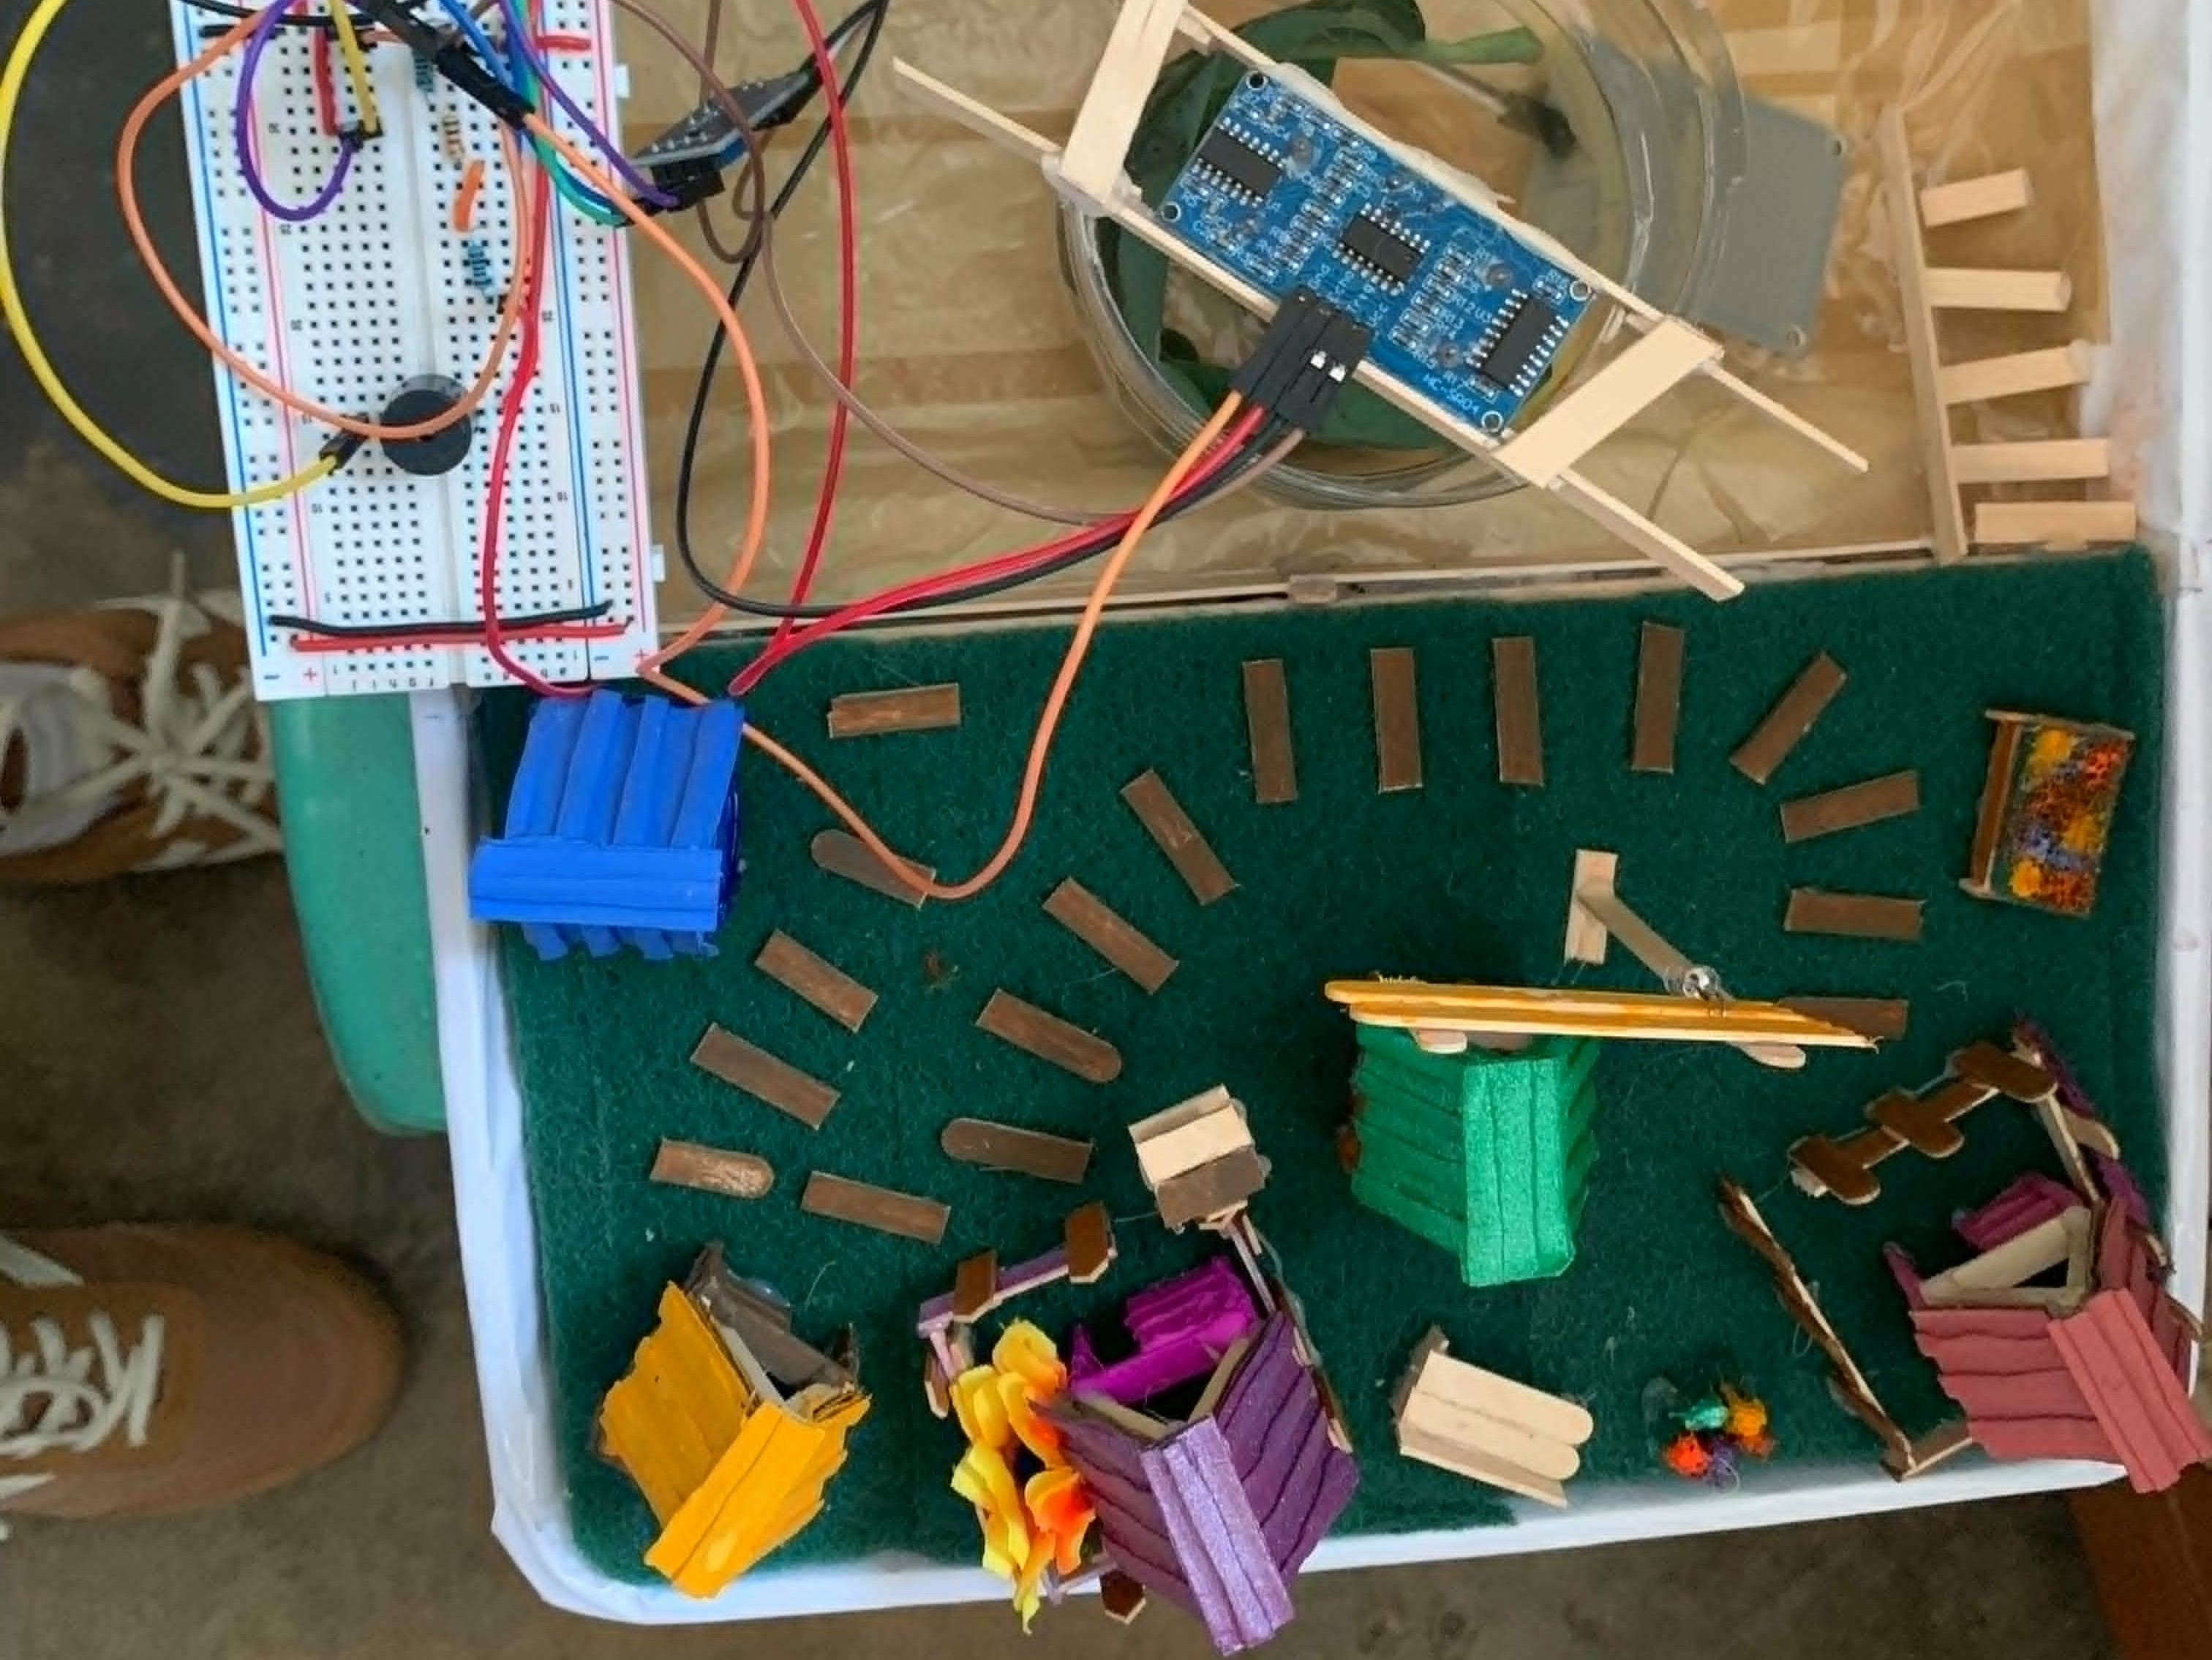
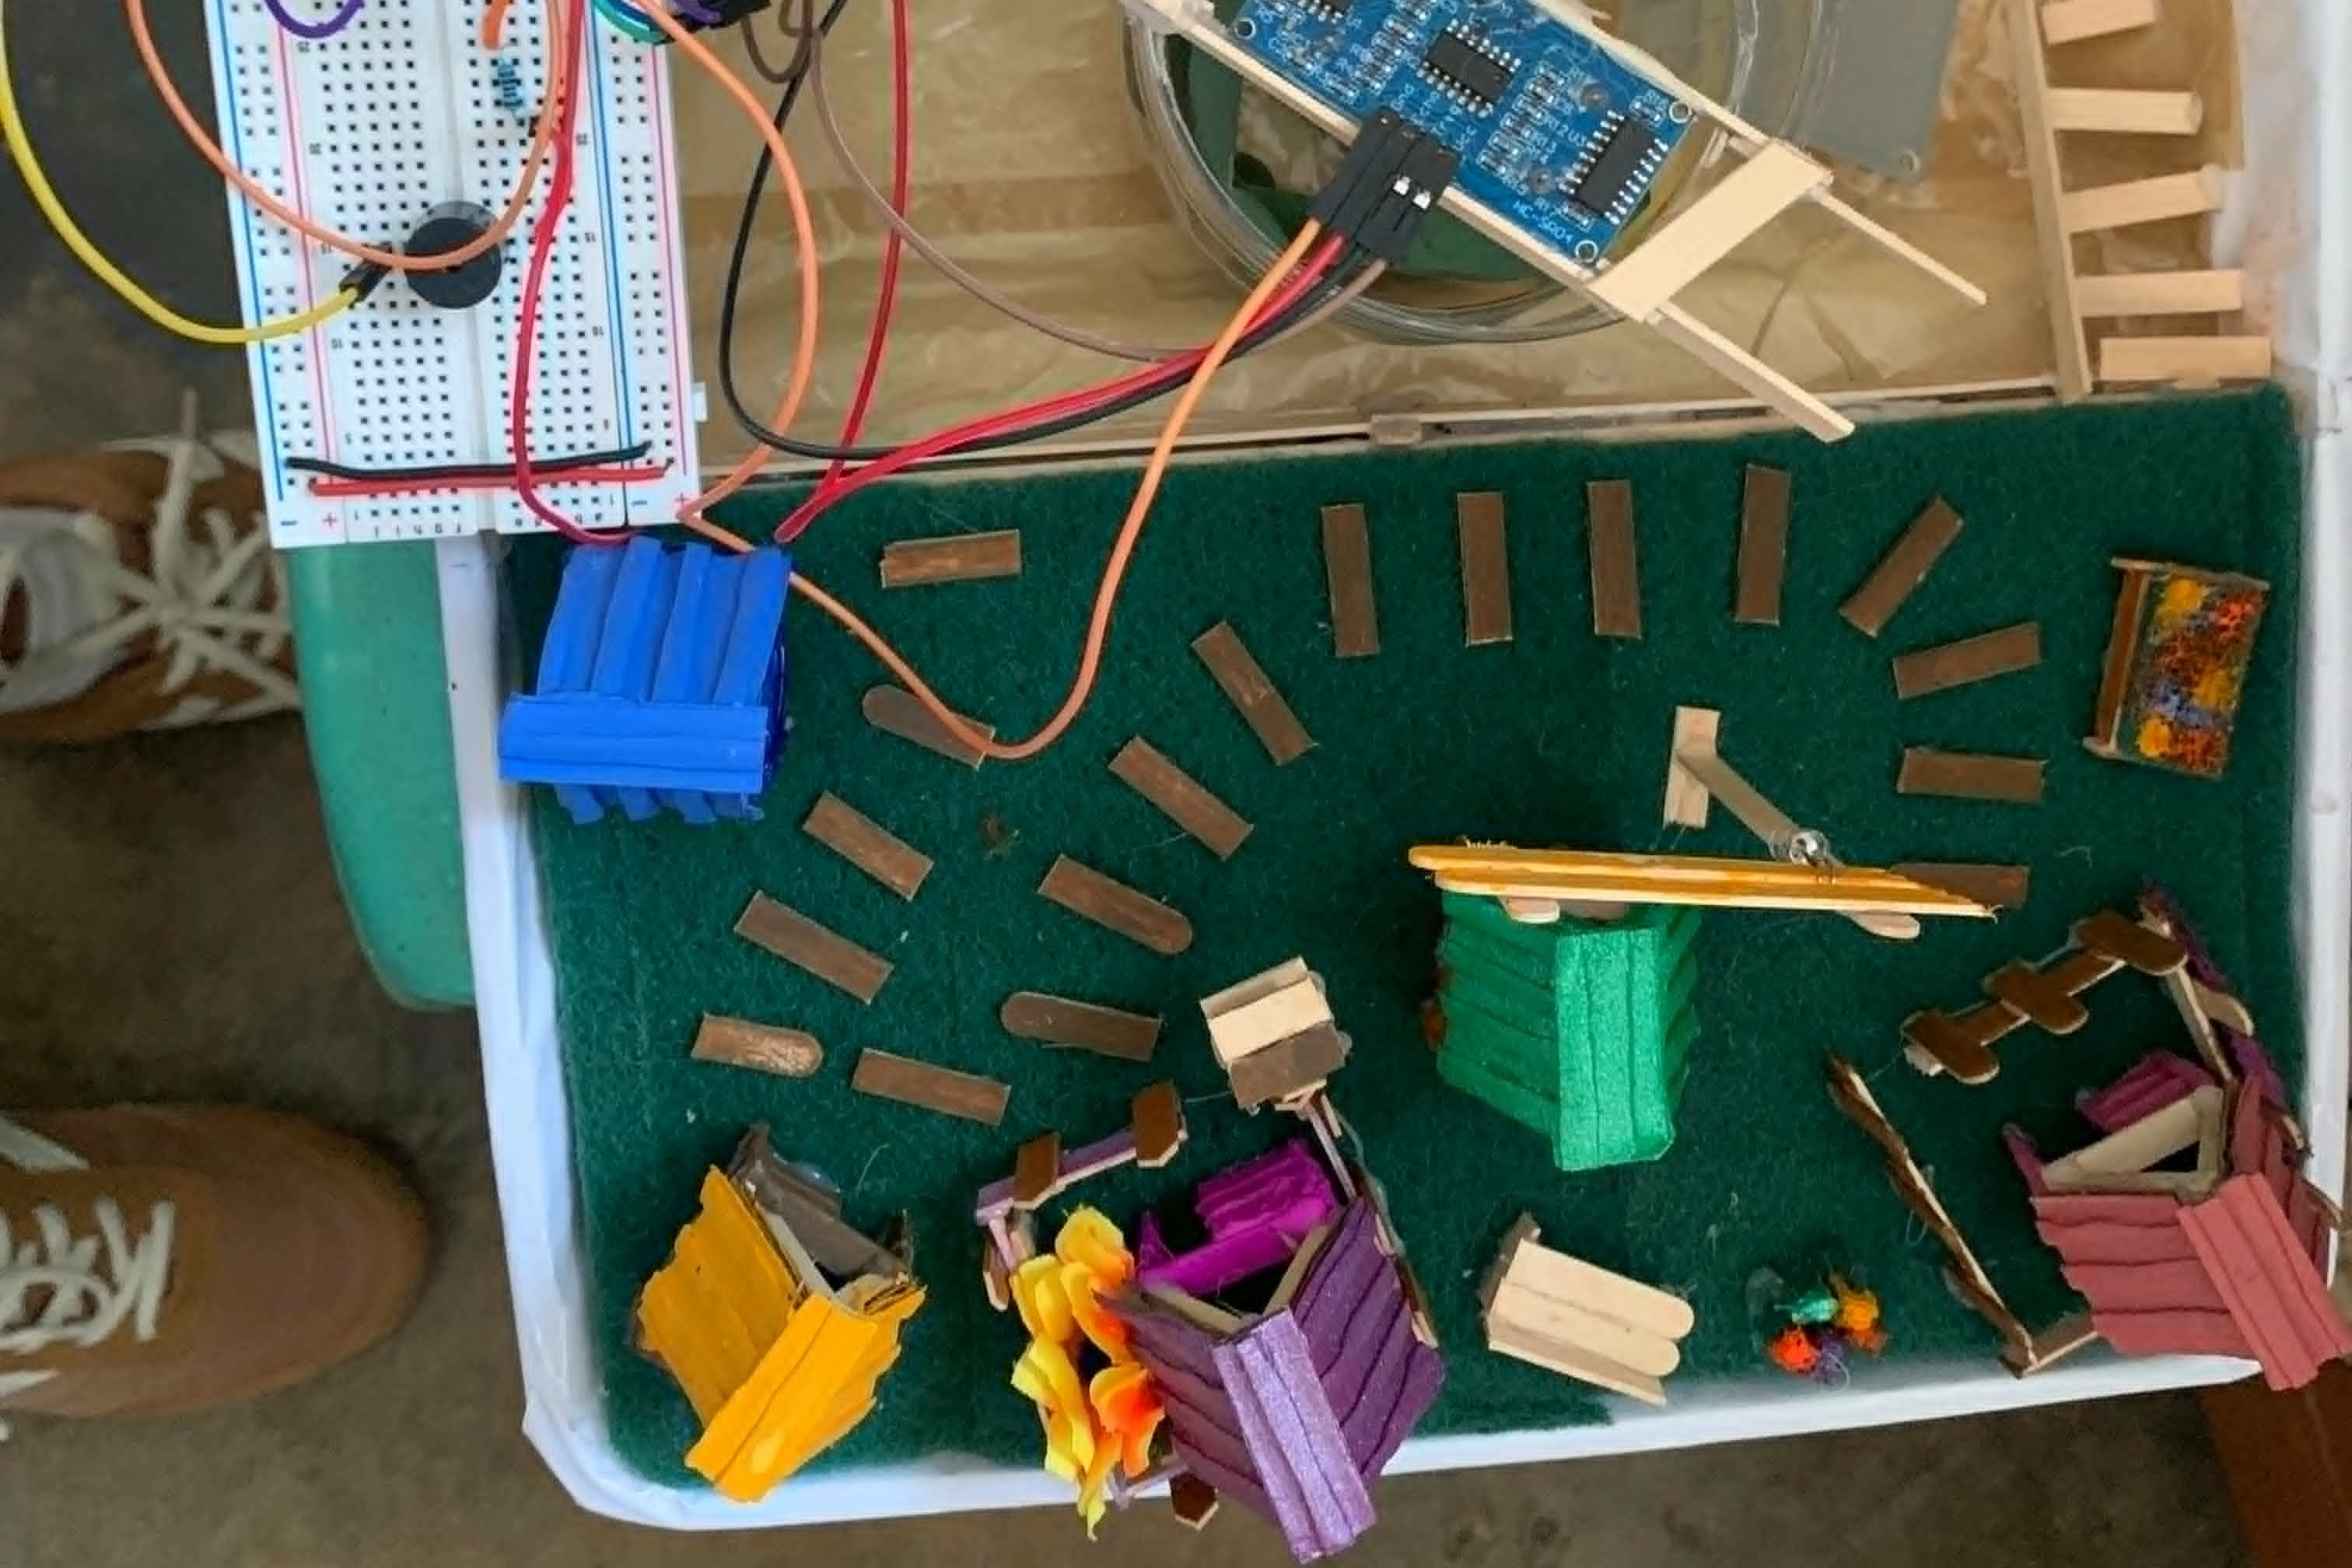
commit
commit

diff --git a/index.html b/index.html
@@ -448,21 +448,20 @@
           </div>
         </div>
       </div>
-    </div>
-     <div class="col-lg-4 col-md-6 portfolio-item filter-card">
-        <div class="portfolio-wrap">
-          <img src="assets/img/portfolio/ballandbeam.jpeg" class="img-fluid" alt="Navigation Bar">
-          <div class="portfolio-info">
-            <h4>Ball and Beam(PI Algorithm)</h4>
-            <div class="portfolio-links">
-              <a href="assets/img/portfolio/ballandbeam.jpeg" data-gallery="portfolioGallery" class="portfolio-lightbox" title="BallandBeam"></a>
-              <a href="portfolio-details.html?project=bot5" data-gallery="portfolioDetailsGallery" data-glightbox="type: external" class="portfolio-details-lightbox" title="Portfolio Details">
-                <i class="bx bx-link"></i>
-              </a>
-            </div>
-          </div>
-        </div>
-      </div>
+		<div class="col-lg-4 col-md-6 portfolio-item filter-card">
+			<div class="portfolio-wrap">
+			  <img src="assets/img/portfolio/ballandbeam.jpg" class="img-fluid" alt="Navigation Bar">
+			  <div class="portfolio-info">
+				<h4>Ball and Beam(PI Algorithm)</h4>
+				<div class="portfolio-links">
+				  <a href="assets/img/portfolio/ballandbeam.jpg" data-gallery="portfolioGallery" class="portfolio-lightbox" title="BallandBeam"></a>
+				  <a href="portfolio-details.html?project=bot5" data-gallery="portfolioDetailsGallery" data-glightbox="type: external" class="portfolio-details-lightbox" title="Portfolio Details">
+					<i class="bx bx-link"></i>
+				  </a>
+				</div>
+			  </div>
+			</div>
+		</div>
      <div class="col-lg-4 col-md-6 portfolio-item filter-card">
         <div class="portfolio-wrap">
           <img src="assets/img/portfolio/waterlevel.jpeg" class="img-fluid" alt="Navigation Bar">
@@ -477,6 +476,7 @@
           </div>
         </div>
       </div>
+	</div>
   </div>
 </section>
 

diff --git a/portfolio-details.html b/portfolio-details.html
@@ -156,10 +156,10 @@
           "Video Walkthrough": "https://drive.google.com/file/d/1yEivgCj3Inf4uzpekIp9uam0CTUvgv14/view?usp=sharing"
         },
         description: "Powered by a trained model created using Teachable Machine. FlowerKnows can recognize flowers either through a live camera feed or by uploading an image, and provides prediction results along with probability scores."
-       },
+        },
 	    bot5: {
         title: "Ball and Beam (PI algorithm)",
-        image: "assets/img/portfolio/ballandbeam.jpeg",
+        image: "assets/img/portfolio/ballandbeam.jpg",
         info: {
           Category: "Arduino",
           "Project date": "March 2026",